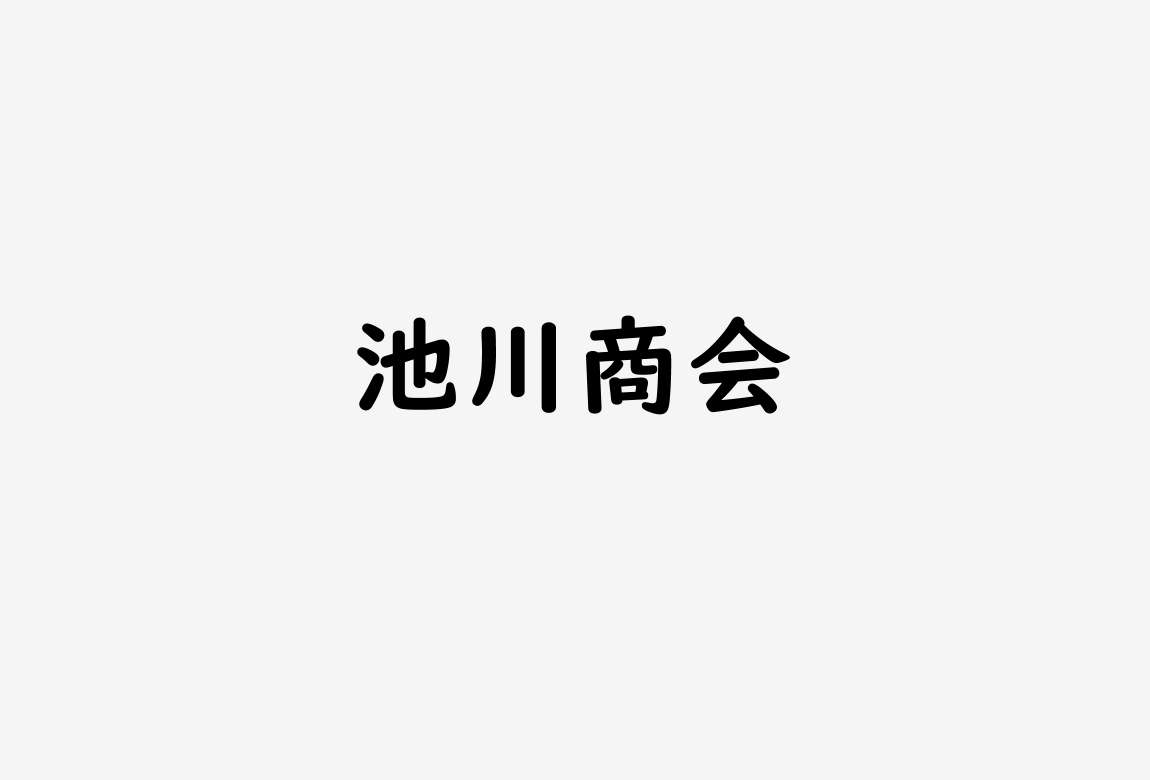
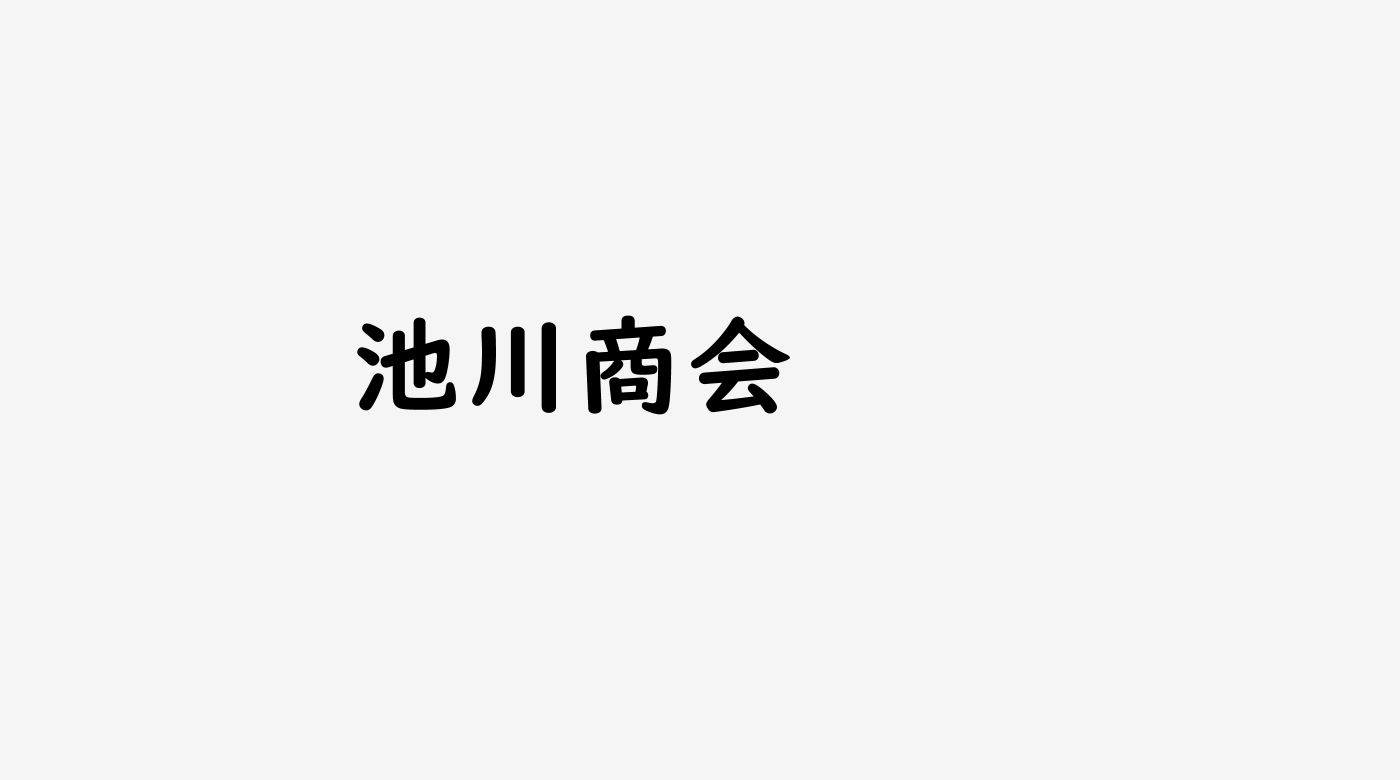
20210107

Changed region(s): [[0.2435, 0.4, 0.7, 0.5538]]

diff --git a/js/plugins.js b/js/plugins.js
@@ -2,7 +2,7 @@
 // Do not edit this file directly.
 var $plugins =
 [
-{"name":"Community_Basic","status":true,"description":"基本的なパラメーターを設定するプラグインです。","parameters":{"cacheLimit":"20","screenWidth":"1350","screenHeight":"782","changeWindowWidthTo":"","changeWindowHeightTo":"","renderingMode":"canvas","alwaysDash":"off","textSpeed":"1","autoSaveFileId":"0","errorMessage":"エラーが発生しました。ゲームの作者にご連絡ください。","showErrorDetail":"true","enableProgressBar":"true","maxRenderingFps":"0"}},
+{"name":"Community_Basic","status":true,"description":"基本的なパラメーターを設定するプラグインです。","parameters":{"cacheLimit":"20","screenWidth":"1400","screenHeight":"782","changeWindowWidthTo":"","changeWindowHeightTo":"","renderingMode":"canvas","alwaysDash":"off","textSpeed":"1","autoSaveFileId":"0","errorMessage":"エラーが発生しました。ゲームの作者にご連絡ください。","showErrorDetail":"true","enableProgressBar":"true","maxRenderingFps":"0"}},
 {"name":"TitleNewGameOnly","status":true,"description":"ニューゲームオンリープラグイン","parameters":{"startString":"Login start","font":"","fileExistAction":"0","soundEffect":"","adjustY":"0"}},
 {"name":"OnlineAvatar","status":true,"description":"Firebaseを使ってプレイヤーをオンライン同期します。","parameters":{"apiKey":"AIzaSyA283i_MIkhDyHwPy1aKo-ZIQ6sgQJ-3-0","authDomain":"ikegawasyoukai.firebaseapp.com","databaseURL":"https://ikegawasyoukai-default-rtdb.firebaseio.com","avatarEvent":"0","syncSwitchStart":"0","syncSwitchEnd":"0","syncVariableStart":"100","syncVariableEnd":"5000"}},
 {"name":"PictureCallCommon","status":true,"description":"ピクチャのボタン化プラグイン","parameters":{"透明色を考慮":"true","ピクチャ番号の変数番号":"0","ポインタX座標の変数番号":"0","ポインタY座標の変数番号":"0","タッチ操作抑制":"false","戦闘中常にコモン実行":"false","無効スイッチ":"0"}},
